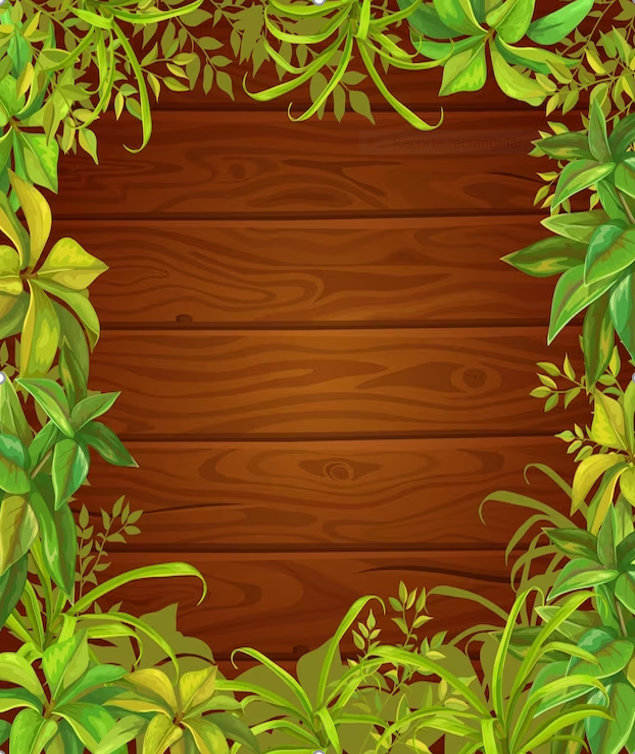
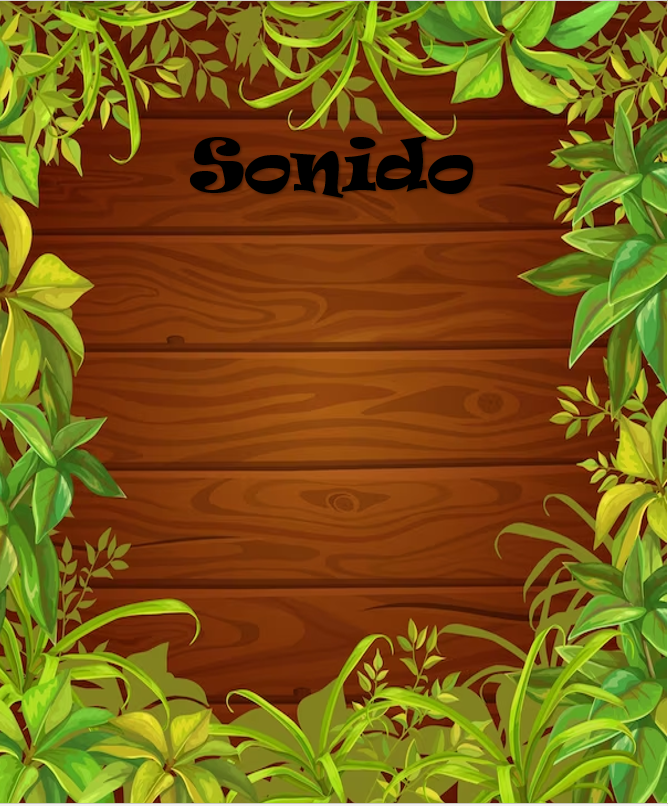
arreglo 1
arreglos

diff --git a/src/main/java/com/utadeo/tamagochi/views/Sonido.java b/src/main/java/com/utadeo/tamagochi/views/Sonido.java
@@ -31,6 +31,8 @@ public class Sonido extends javax.swing.JFrame {
 
         jPanel1 = new javax.swing.JPanel();
         BSALIDAS = new javax.swing.JButton();
+        sonidoJLabel = new javax.swing.JLabel();
+        muteJLabel = new javax.swing.JLabel();
         jLabel1 = new javax.swing.JLabel();
 
         setDefaultCloseOperation(javax.swing.WindowConstants.EXIT_ON_CLOSE);
@@ -48,8 +50,19 @@ public class Sonido extends javax.swing.JFrame {
         });
         jPanel1.add(BSALIDAS, new org.netbeans.lib.awtextra.AbsoluteConstraints(540, 0, 80, 50));
 
+        sonidoJLabel.setIcon(new javax.swing.ImageIcon(getClass().getResource("/images/sonido.png"))); // NOI18N
+        sonidoJLabel.addMouseListener(new java.awt.event.MouseAdapter() {
+            public void mouseClicked(java.awt.event.MouseEvent evt) {
+                sonidoJLabelMouseClicked(evt);
+            }
+        });
+        jPanel1.add(sonidoJLabel, new org.netbeans.lib.awtextra.AbsoluteConstraints(120, 250, 200, 140));
+
+        muteJLabel.setIcon(new javax.swing.ImageIcon(getClass().getResource("/images/mute.png"))); // NOI18N
+        jPanel1.add(muteJLabel, new org.netbeans.lib.awtextra.AbsoluteConstraints(350, 240, -1, -1));
+
         jLabel1.setIcon(new javax.swing.ImageIcon(getClass().getResource("/images/FMenu.PNG"))); // NOI18N
-        jPanel1.add(jLabel1, new org.netbeans.lib.awtextra.AbsoluteConstraints(0, 0, -1, 668));
+        jPanel1.add(jLabel1, new org.netbeans.lib.awtextra.AbsoluteConstraints(0, 0, 630, 668));
 
         getContentPane().add(jPanel1, new org.netbeans.lib.awtextra.AbsoluteConstraints(0, 0, -1, -1));
 
@@ -68,11 +81,17 @@ public class Sonido extends javax.swing.JFrame {
         this.dispose();
     }//GEN-LAST:event_BSALIDASActionPerformed
 
+    private void sonidoJLabelMouseClicked(java.awt.event.MouseEvent evt) {//GEN-FIRST:event_sonidoJLabelMouseClicked
+        // TODO add your handling code here:
+    }//GEN-LAST:event_sonidoJLabelMouseClicked
+
 
 
     // Variables declaration - do not modify//GEN-BEGIN:variables
     private javax.swing.JButton BSALIDAS;
     private javax.swing.JLabel jLabel1;
     private javax.swing.JPanel jPanel1;
+    private javax.swing.JLabel muteJLabel;
+    private javax.swing.JLabel sonidoJLabel;
     // End of variables declaration//GEN-END:variables
 }

diff --git a/src/main/java/com/utadeo/tamagochi/views/Menu.java b/src/main/java/com/utadeo/tamagochi/views/Menu.java
@@ -54,7 +54,7 @@ public class Menu extends javax.swing.JFrame {
                 BJUGARActionPerformed(evt);
             }
         });
-        jPanel1.add(BJUGAR, new org.netbeans.lib.awtextra.AbsoluteConstraints(240, 160, 160, 70));
+        jPanel1.add(BJUGAR, new org.netbeans.lib.awtextra.AbsoluteConstraints(240, 150, 160, 70));
 
         BREGLAS.setIcon(new javax.swing.ImageIcon(getClass().getResource("/images/BREGLAS.PNG"))); // NOI18N
         BREGLAS.setText("BREGLAS");
@@ -72,7 +72,7 @@ public class Menu extends javax.swing.JFrame {
                 BSONIDOActionPerformed(evt);
             }
         });
-        jPanel1.add(BSONIDO, new org.netbeans.lib.awtextra.AbsoluteConstraints(240, 340, 160, 70));
+        jPanel1.add(BSONIDO, new org.netbeans.lib.awtextra.AbsoluteConstraints(240, 350, 160, 70));
 
         BSALIR.setIcon(new javax.swing.ImageIcon(getClass().getResource("/images/BSALIR.PNG"))); // NOI18N
         BSALIR.setText("BSALIR");
@@ -81,10 +81,10 @@ public class Menu extends javax.swing.JFrame {
                 BSALIRActionPerformed(evt);
             }
         });
-        jPanel1.add(BSALIR, new org.netbeans.lib.awtextra.AbsoluteConstraints(240, 430, 160, 70));
+        jPanel1.add(BSALIR, new org.netbeans.lib.awtextra.AbsoluteConstraints(240, 460, 160, 70));
 
-        jLabel1.setIcon(new javax.swing.ImageIcon(getClass().getResource("/images/FMENUIMA.PNG"))); // NOI18N
-        jPanel1.add(jLabel1, new org.netbeans.lib.awtextra.AbsoluteConstraints(-10, -2, 650, 670));
+        jLabel1.setIcon(new javax.swing.ImageIcon(getClass().getResource("/images/fm.PNG"))); // NOI18N
+        jPanel1.add(jLabel1, new org.netbeans.lib.awtextra.AbsoluteConstraints(-10, 0, 650, 670));
 
         javax.swing.GroupLayout layout = new javax.swing.GroupLayout(getContentPane());
         getContentPane().setLayout(layout);

diff --git a/src/main/java/com/utadeo/tamagochi/views/Iniciop.java b/src/main/java/com/utadeo/tamagochi/views/Iniciop.java
@@ -317,7 +317,7 @@ public class Iniciop extends javax.swing.JFrame {
                 comidaDerechaJLabelMouseClicked(evt);
             }
         });
-        jPanel2.add(comidaDerechaJLabel, new org.netbeans.lib.awtextra.AbsoluteConstraints(460, 380, 150, 140));
+        jPanel2.add(comidaDerechaJLabel, new org.netbeans.lib.awtextra.AbsoluteConstraints(440, 380, 180, 140));
 
         comidaIzquierdaJLabel.setIcon(new javax.swing.ImageIcon(getClass().getResource("/images/panda/panda_bambu.png"))); // NOI18N
         comidaIzquierdaJLabel.addMouseListener(new java.awt.event.MouseAdapter() {

diff --git a/src/main/java/com/utadeo/tamagochi/views/Nombrem.java b/src/main/java/com/utadeo/tamagochi/views/Nombrem.java
@@ -66,7 +66,7 @@ public class Nombrem extends javax.swing.JFrame {
         jPanel1.add(nameJTextField, new org.netbeans.lib.awtextra.AbsoluteConstraints(140, 300, 410, 60));
 
         jLabel1.setIcon(new javax.swing.ImageIcon(getClass().getResource("/images/FN_MASCOTA.PNG"))); // NOI18N
-        jPanel1.add(jLabel1, new org.netbeans.lib.awtextra.AbsoluteConstraints(0, 0, 646, 669));
+        jPanel1.add(jLabel1, new org.netbeans.lib.awtextra.AbsoluteConstraints(0, 0, 640, 669));
 
         getContentPane().add(jPanel1, new org.netbeans.lib.awtextra.AbsoluteConstraints(0, 0, -1, -1));
 
